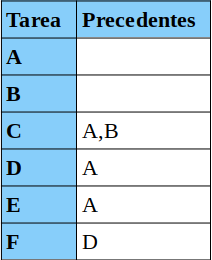
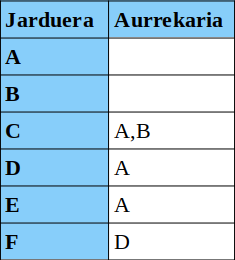
cast parekoa

Changed region(s): [[0.0, 0.0, 0.9623, 1.0], [0.9906, 0.0, 1.0, 1.0]]

diff --git a/DenborarenKudeaketa/index.html b/DenborarenKudeaketa/index.html
@@ -19,7 +19,7 @@
     </header>
 
     <section class="slide" id="cover">
-        <h2>Gestión de Proyectos (GP)</h2>
+        <h2>Proiektuen Kudeaketa (PK)</h2>
         <h3>Denboraren Kudeaketa: Gantt, PERT, CPM</h3>
         <p>Mikel Egaña Aranguren (<a href="mailto:mikel.egana@ehu.eus">mikel.egana@ehu.eus</a>)</p>
         <!-- <p><a href="https://mikel-egana-aranguren.github.io/">mikel-egana-aranguren.github.io</a></p> -->
@@ -35,71 +35,71 @@
 
     <section class="slide" id="cover">
         <h2>Denboraren Kudeaketa</h2>
-        <p>Ya sabemos:
+        <p>Dagoeneko badakigu:
             <ul>
-                <li>Qué tareas hay que realizar</li>
-                <li>Cuánto tiempo necesitamos para cada tarea</li>
-                <li>Quién va a realizar cada tarea</li>
+                <li>Zein jarduera egin behar diren</li>
+                <li>Zenbat denbora behar dugun jarduera bakoitzeko</li>
+                <li>Nor arduratuko den jarduera bakoitzaz</li>
             </ul>
         </p>
-        <p>¿Cómo las distribuimos en el tiempo?</p>
+        <p>Nola banatuko ditugu denboran zehar?</p>
     </section>
 
     <section class="slide" id="cover">
-        <h2>Diagrama de Gantt</h2>
-        <img src="pictures-gp-31/Ganttproject-house-building-sample.png" alt="Diagrama de Gantt" width="50%" border="1px solid #555"> <p style="text-align:right;font-size:30%;"><a href="https://commons.wikimedia.org/w/index.php?curid=10593040">De GanttProject Developers - GanttProject Developers, CC BY-SA 3.0</a></p>
+        <h2>Gantt Diagrama</h2>
+        <img src="pictures-gp-31/Ganttproject-house-building-sample.png" alt="Gantt Diagrama" width="50%" border="1px solid #555"> <p style="text-align:right;font-size:30%;"><a href="https://commons.wikimedia.org/w/index.php?curid=10593040">De GanttProject Developers - GanttProject Developers, CC BY-SA 3.0</a></p>
     </section>
 
     <section class="slide" id="cover">
-        <h2>Diagrama de Gantt</h2>
+        <h2>Gantt Diagrama</h2>
         <ul>
-        <li>Cuadro bidimensional:
+        <li>Bi dimentsiotako koadroa:
             <ul>
-                <li>Eje horizontal: tiempo</li>
-                <li>Eje vertical: tareas</li>
-                <li>Tarea: bloque rectangular (longitud = duración)</li>
-                <li>Posición del bloque: inicio y fin de tarea</li>
+                <li>Ardatz horizontalean: denbora</li>
+                <li>Ardatz berticalean: jarduerak</li>
+                <li>Jarduera bakoitza bloke laukizuzena (Luzera = iraupena)</li>
+                <li>Blokearen tokia: hasiera eta bukaera</li>
             </ul>
         </li>
         </ul>
     </section>
 
     <section class="slide" id="cover">
-        <h2>Diagrama de Gantt</h2>
+        <h2>Gantt Diagrama</h2>
         <ul>
-        <li>Sólo representa la elección del autor</li>
-        <li>No refleja (ni justifica ni permite conocer):
+        <li>Egilearen aukeraketa adierazten du soilik</li>
+        <li>Ez du adierazten eta ezin dugu jakin:
             <ul>
-                <li>Orden óptimo de las actividades</li>
-                <li>Plazo mínimo de ejecución del proyecto</li>
-                <li>Efectos de retrasos</li>
+                <li>Jardueren orden optimoa</li>
+                <li>Proiektua garatzeko denbora minimoa</li>
+                <li>Atzerapenen ondorioak</li>
             </ul>
-        <li>Para ello se usan técnicas de planificación como PERT, CPM, ROY, Precedencias, ...</li>
+        <li>Horretarako planifikazio teknikak erabiltzen dira, hala nola PERT, CPM, ROY, Aurrekotasunak, ...</li>
         </li>
         </ul>
     </section>
 
     <section class="slide" id="cover">
-        <h2>Técnicas de planificación: Objetivos</h2>
+        <h2>Planifikazio teknikak: Helburuak</h2>
         <ul>
-        <li>Determinar qué tareas son necesarias y cuándo</li>
-        <li>Buscar el plazo mínimo de ejecución del proyecto</li>
-        <li>Buscar ligaduras temporales entre tareas</li>
-        <li>Identificar las tareas críticas (Si se retrasan, afectan a todo el proyecto)</li>
-        <li>Identificar el camino crítico (Formado por tareas críticas)</li>
-        <li>Detectar holguras (Tiempo que puede retrasarse una tarea sin afectar al proyecto)</li>
+        <li>Zehaztu ze jarduera diren beharrezko eta noizko</li>
+        <li>Proiektua garatzeko denbora minimoa aurkitu</li>
+        <li>Jardueren aretko denbora-murriztapenak zehaztu</li>
+        <li>Jarduera kritikoak identifikatu (Atzeratzen badira proiektu osoan dute eragina)</li>
+        <li>Bide kritikoa identifikatu (Jarduera kritikoz osatua dagoena)</li>
+        <li>Jardueren lasaierak identifikatu (Jarduera bat atzeratu daitekeena proiektu osoan eraginik gabe)</li>
         </ul>
     </section>
 
     <section class="slide" id="cover">
         <h2>PERT (Program Evaluation and Review Techniques)</h2>
         <ul>
-        <li>Hay que ordenar las tareas:
+        <li>Jarduerak ordenatu behar dira:
             <ul>
-                <li>¿Qué se puede hacer ahora?</li>
-                <li>¿Qué tiene que estar hecho ya?</li>
-                <li>¿Qué podría hacerse a la vez?</li>
-                <li>¿Qué debe ser lo siguiente?</li>
+                <li>Zer egin daiteke orain?</li>
+                <li>Zer egon behar da dagoeneko eginda?</li>
+                <li>Batera egin al daitezke?</li>
+                <li>Zer izango da hurrengoa?</li>
             </ul>  
         </li>  
         </ul>
@@ -108,32 +108,32 @@
     <section class="slide" id="cover">
         <h2>PERT (Program Evaluation and Review Techniques)</h2>
         <ul> 
-        <li>El resultado es un grafo donde:
+        <li>Emaitza garfo bat da, non:
             <ul>
-                <li>Los nodos representan momentos en el tiempo (sucesos)</li>
-                <li>Los arcos representan tareas (Cada tarea aparece una única vez en el grafo) </li>
-                <li>Sólo puede haber un arco (directo) entre dos nodos</li>
+                <li>Adabegiek mugarriak adierazten dituzte ("Gertaerak")</li>
+                <li>Arkuek jarduerak adierazten dituzte (Jarduera bakoitza behin soilik agertzen da grafoan) </li>
+                <li>Gertaera batetik beste gertaera batera arku bat soilik egongo dat gehienez</li>
             </ul>
         </li>
         </ul>
     </section>
 
     <section class="slide" id="cover">
-        <h2>PERT: Tipos de Precedencias</h2>
+        <h2>PERT: Aurrekotasuna motak</h2>
 
-        <img src="pictures-gp-31/precedencia-lineal.png" alt="Tipos de precedencias" width="95%">
+        <img src="pictures-gp-31/precedencia-lineal.png" alt="Aurrekotasuna motak" width="95%">
     </section>
 
     <section class="slide" id="cover">
-        <h2>PERT: Recoger Precedencias</h2>
-        <p><b>Matriz de encadenamientos</b>: para comenzar la tarea de la fila, finalizar la de la columna</p>
-        <img src="pictures-gp-31/MatrizEncadenamientos.png" alt="Matriz de encadenamientos" width="30%">
+        <h2>PERT: Aurrekotasunak jaso</h2>
+        <p><b>Kate-matrizea</b>: lerroaren jarduea hasteko zutabearen jarduera bukatuta egon behar du</p>
+        <img src="pictures-gp-31/MatrizEncadenamientos.png" alt="Kate-matrizea" width="30%">
     </section>
 
     <section class="slide" id="cover">
-        <h2>PERT: Recoger Precedencias</h2>
-        <p><b>Cuadro de precedentes</b>: tareas, precedentes</p>
-        <img src="pictures-gp-31/CuadroPrecedentes.png" alt="Cuadro de precedentes" width="30%">
+        <h2>PERT: Aurrekotasunak jaso</h2>
+        <p><b>Aurrekari-koadroa</b>: jarduerak, aurrekariak</p>
+        <img src="pictures-gp-31/CuadroPrecedentes.png" alt="Aurrekari-koadroa" width="30%">
     </section>
 
     <footer class="badge">
